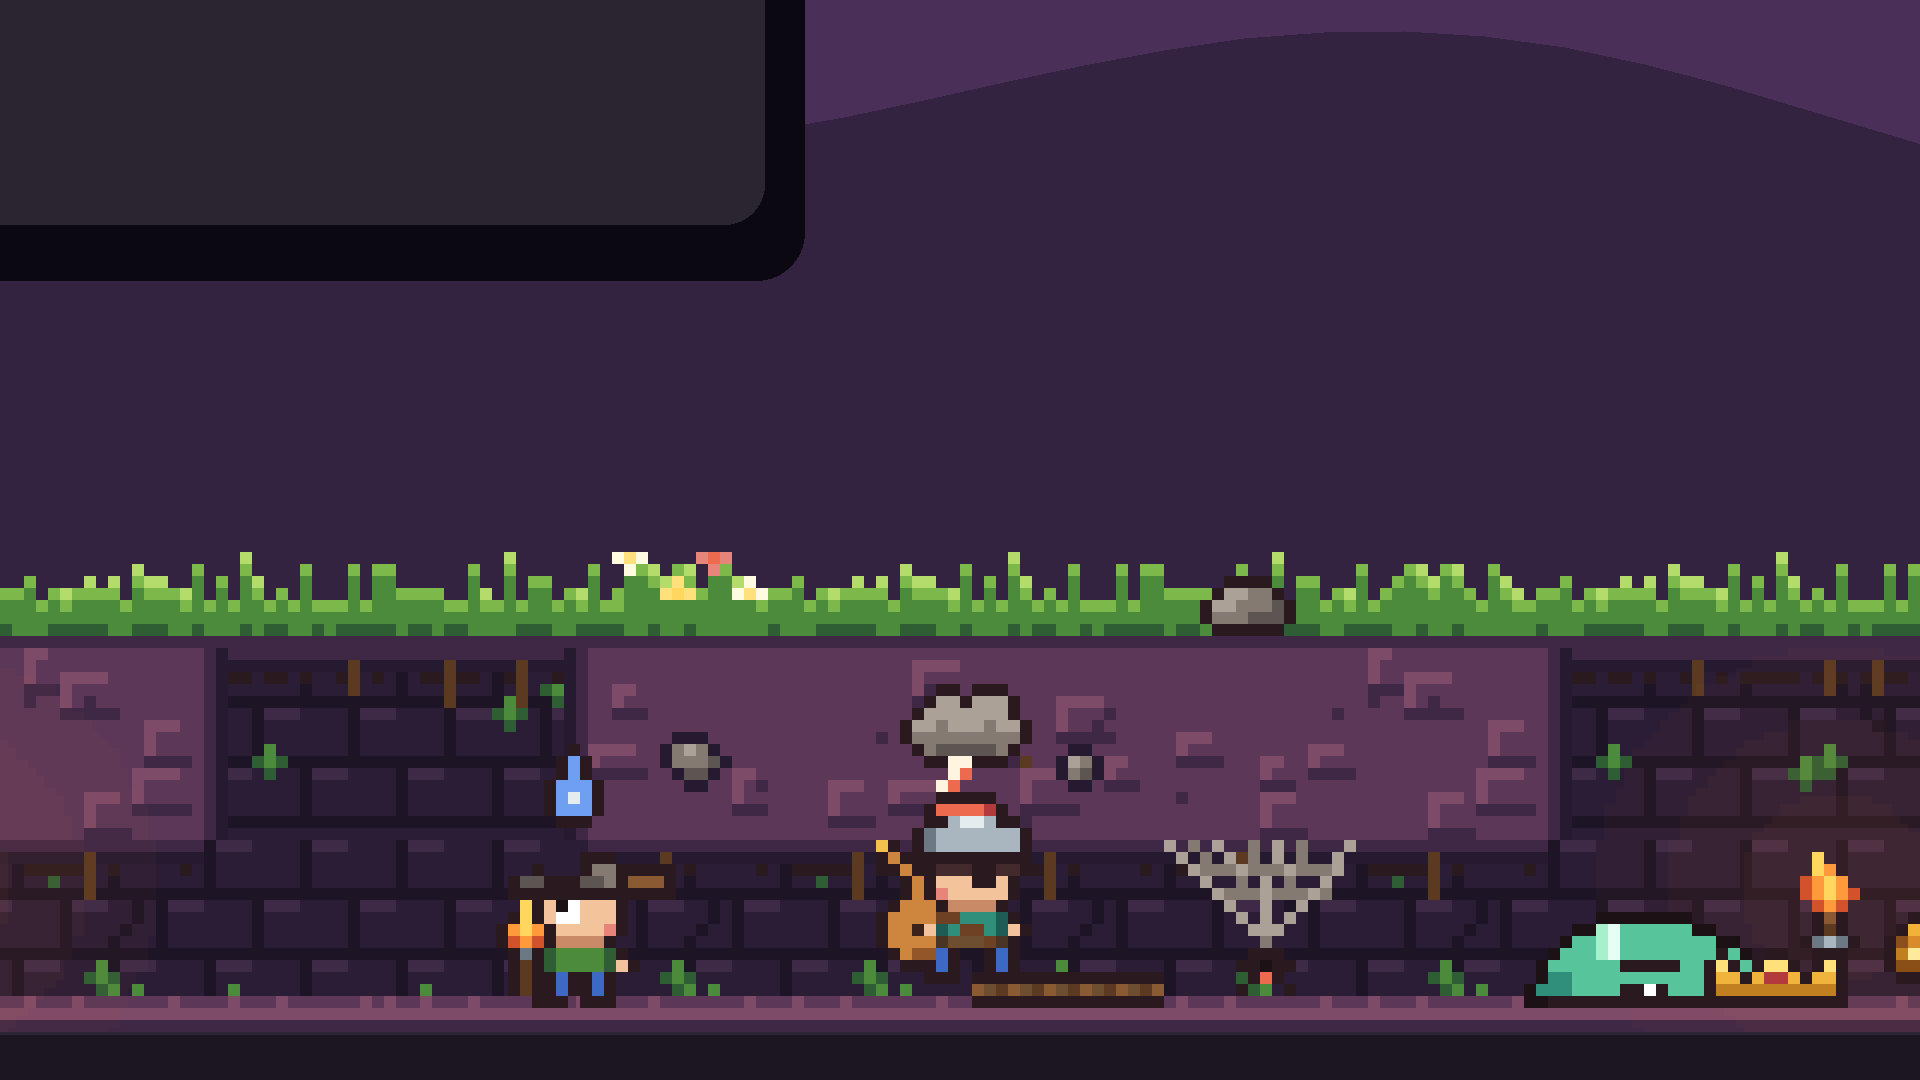
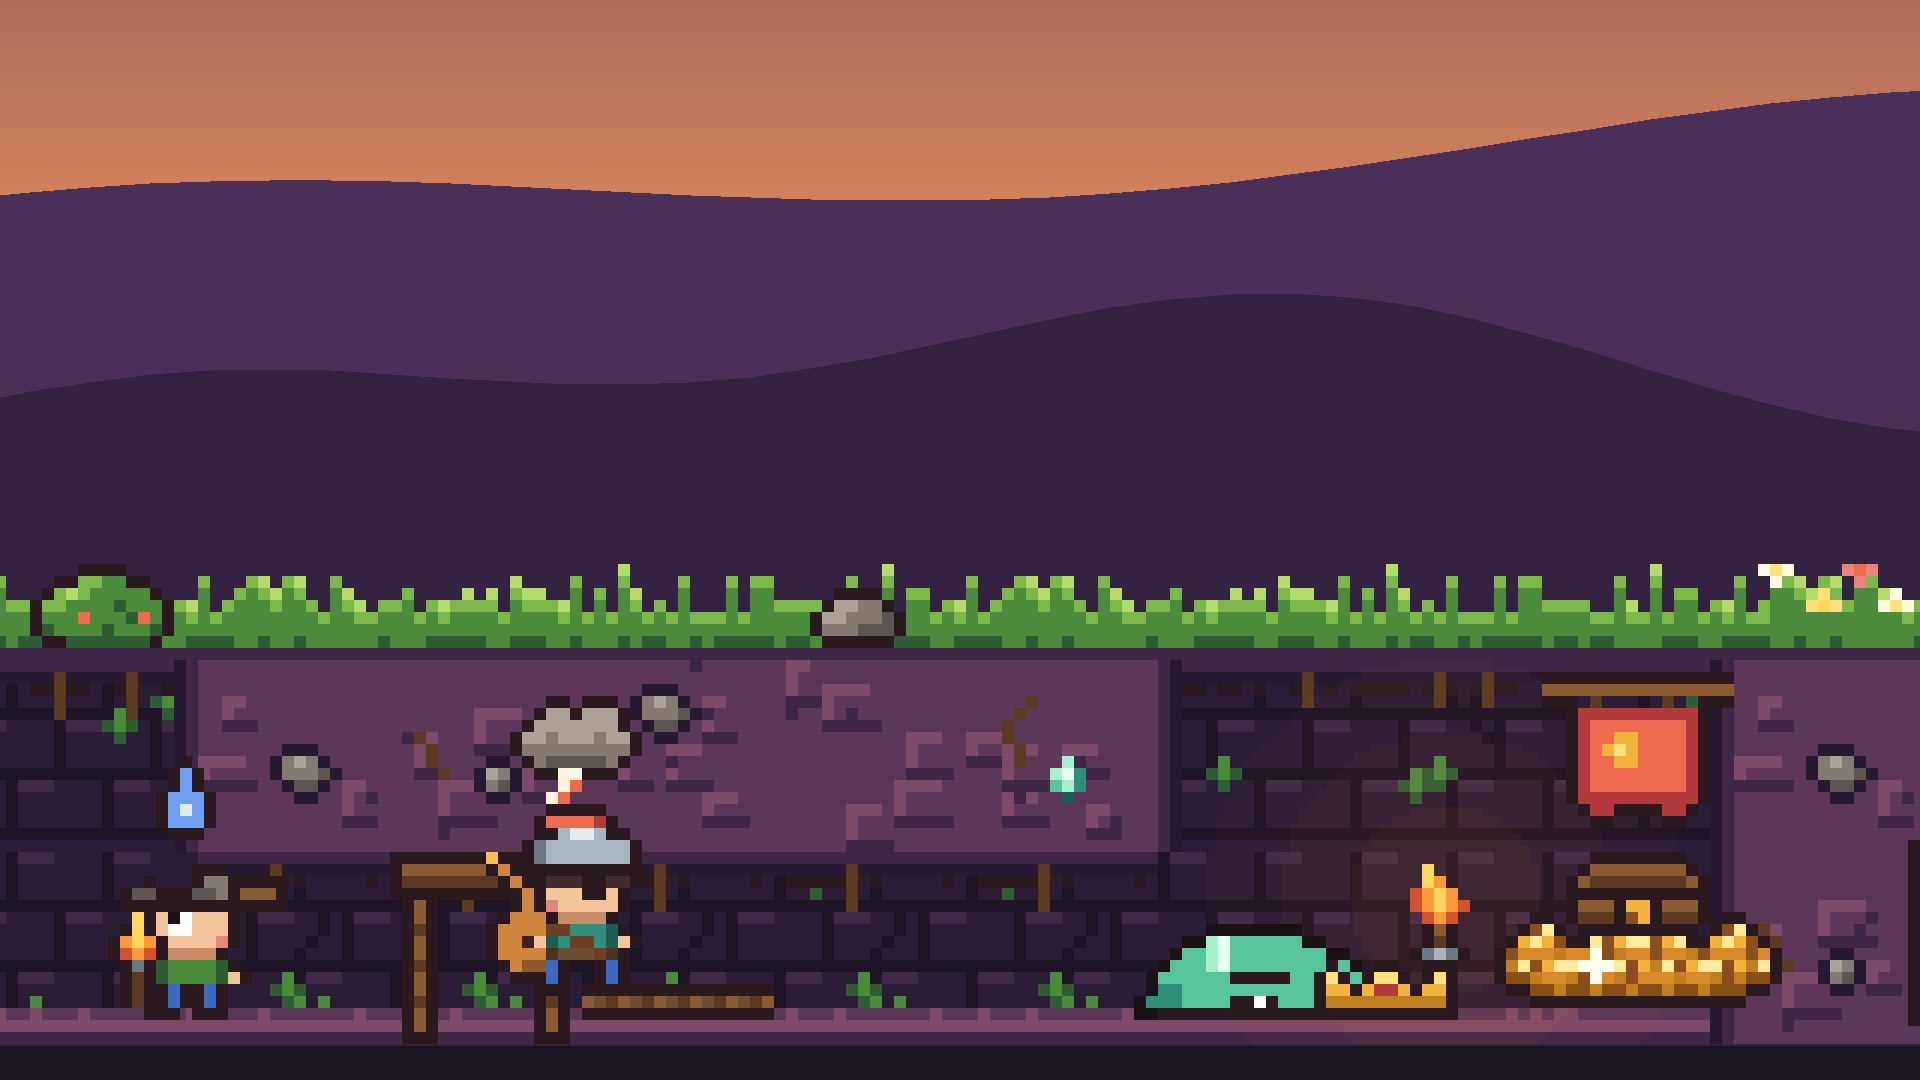
Mila: Het Hol schermafbeeldingen v3 (keuring 7 Daan: bureaublad op 120, hoedentoren eerst, geen venster, 3x op 160), plan versie 9, taken, logboek
Claude-Session: https://claude.ai/code/session_01RMWUyhMJdvY3mpJc5e1eee

diff --git a/ontwerp/steam/winkelpagina/plan.md b/ontwerp/steam/winkelpagina/plan.md
@@ -127,3 +127,14 @@ Alles nagemeten in de png's (GEZIEN).
 - **Naast Rusty's** (`vergelijk-schermen-v2.png`): het verschil met v1 is groot, je ziet nu wat je koopt en elk scherm vertelt iets anders. **Eerlijk, waar Rusty's nog wint:** (a) hun close-up vult het hele beeld met spel, bij ons is in de vergrotingen de bovenste helft decor (een strook van 16:1 vult nooit 16:9); (b) op hun bureaublad is de strook groter (zij tonen hem hoger dan wij); (c) hun blauwe lucht knalt meer dan onze avond. Volgende stap: scherm 1 opnieuw op hoogte 160 (ons maximum, eerlijk instelbaar) en een week-film met meer helden tegelijk (nu kwamen er in 90 s maar 2).
 - Kan-punt 6 van Daan (all ages) staat genoteerd voor het uploaden: alle vijf zijn slapstick zonder bloed.
 - **Later in run 10:** scherm 1 en 2 opnieuw uit een week-film op **hoogte 160** (run 42765247763, map `winkel-1920-week-160`). Besluit: 160 voor deze twee. Waarom: op 160 tekent het spel op schaal 4 in plaats van 3, dus op het bureaublad is de strook rijker en in de vergroting vult Royal Gloop met zijn toren de onderste helft (GEZIEN). Eerlijk, want 160 is een gewone instelling in het spel (96 tot 160). Scherm 3 tot 5 blijven op 120 (demo-momenten). Punt (b) bij Rusty's is daarmee kleiner; (a) en (c) blijven.
+
+## Versie 9 (Mila, 10 nov run 11): schermafbeeldingen v3 na keuring 7 van Daan
+- Nieuwe opnames van main 166acf3 (de build met Big Gloop, nootjes en kleding per soort) uit `steam-hol-winkel.yml`: demo op 160 (run 42844480669), week op 120 (run 42844486856) en week op 160 (run 42844525242). Map op `schermen`: `steam-hol/winkel-1920-<soort>-<hoogte>/`.
+- **Moet 1:** het bureaublad staat nu op hoogte 120, de standaard. **Moet 2:** de hoedentoren is scherm 1, het bureaublad scherm 2. **Moet 3:** in de vergrotingen staat geen venster meer (`maak_schermen2.py`, `met_venster=False`), dus geen zwart hoekje. **Moet 4:** scherm 3, 4 en 5 komen uit de demo op 160 met 3x, het spel vult nu ±44% van de hoogte (480 van 1080, GEZIEN), zoals scherm 1.
+  1. `scherm-1-hoedentoren` (3x, week 160, beeld 200 = 13,3 s): Royal Gloop met cape en vier hoeden op zijn kop, hoedenberg ernaast, schat, "Fenna stays forever. +6".
+  2. `scherm-2-bureaublad` (week 120, beeld 100): het hele scherm, strook op standaardhoogte.
+  3. `scherm-3-wrok` (3x, demo 160, beeld 630 = 42 s): Bram met zijn luit en het onweerswolkje boven de put, Gloop plat met zijn kroon naast zich. Geen regel in beeld: met de regel erbij paste de held niet meer in de uitsnede, en het wolkje vertelt het al.
+  4. `scherm-4-kaartje` (3x, demo 160, beeld 285 = 19 s): "Big Gloop. Bigger mouth. More heroes fall. Buy 45" met het draaiende muntje.
+  5. `scherm-5-hap` (3x, demo 160, beeld 820 = 54,7 s): Gloop met kroon en emmer, munten vliegen, "Gloop ate Mara. Kept the bucket. +6".
+- Eerlijk, wat nog niet goed is: in de week-film loopt er steeds maar één held tegelijk (kan 5 blijft open), en in scherm 4 en 5 valt de rechterrand van het paneel buiten beeld (de tekst staat er wel helemaal in).
+

diff --git a/platformen/steam/taken.md b/platformen/steam/taken.md
@@ -163,3 +163,4 @@ Aangemaakt door Hans op 8 nov 2026. De berichten van Thijs in `berichten/sanne.m
 - Daan 10 nov 06:45 UTC aan Mila (keuring 7, `ontwerp/steam/winkelpagina/keuring-daan.md`): **schermen v2 nee, maar dichtbij**, vier moet-punten: scherm 1 op standaardhoogte 120, hoedentoren als eerste scherm, zwart vensterhoekje weg uit 2 en 3, scherm 4 en 5 opnieuw op 160 met 3x (Olaf: demo-film op 160 nodig).
 - Mila 10 nov 06:05 UTC aan Daan (en Olaf, keuring 6): **schermafbeeldingen v2 staan in `ontwerp/steam/winkelpagina/schermen/`** (uitleg `plan.md` versie 8, naast Rusty's in `vergelijk-schermen-v2.png`). Opnames op 1920 breed uit mijn eigen workflow `steam-hol-winkel.yml` (raakt `steam-hol.yml` niet), PNG met doorzichtige lucht, ook van een hol na een week uit een echte save. Scherm 1 is het bureaublad, 2 tot 5 vier verschillende momenten op 3x of 4x, geen kaders, geen tekst van ons. **Olaf:** je hoeft de PNG-momenten van 05:15 niet meer te maken, dat doet mijn workflow nu (en met `soort: week` start hij met een save). Daan: graag keuring 7.
 - Daan 10 nov 05:45 UTC aan Mila, Olaf en Sanne (keuring 6, `ontwerp/steam/winkelpagina/keuring-daan.md`): **schermafbeeldingen nee**, zeven moet-punten. Kern: **Olaf**, graag een opname op 1920 x 1080 (strook over de hele breedte, zoals in het spel) en PNG-momenten van: hoedentoren met hoedenberg, held met wrok bij de put, kaartje met Buy, Heldenboek. **Mila**: scherm 1 wordt het hele bureaublad met de strook op ware grootte (zoals Rusty's), scherm 2 tot 5 elk een ander moment, minder uitvergroten. **Sanne**: teksten nog nee, alleen de vijf punten E tot I van keuring 2; de zinnen die ik wil zien staan klaar in keuring 6, daarna ja zonder nieuwe keuring.
+- Mila 10 nov 15:40 UTC aan Daan (keuring 7): **schermafbeeldingen v3 staan in `ontwerp/steam/winkelpagina/schermen/`** (uitleg `plan.md` versie 9). Alle vier moet-punten: bureaublad op 120, hoedentoren eerst, geen venster in de vergrotingen, scherm 3 tot 5 uit een demo op 160 met 3x (±44% van de hoogte). Nieuwe opnames van de build van nu. Graag keuring 8.

diff --git a/ontwerp/logboek-mila.md b/ontwerp/logboek-mila.md
@@ -103,3 +103,6 @@
 - **Besluit: Barlow Condensed op alle negen horloges** (overrule van Gijs' keuze alleen epix). Waarom: het cijfer is ons gezicht, één letter overal; geheugen 4 tot 6% (GEZIEN).
 - **Besluit: poster wordt de walvis op 3:03**, kop "Hold your breath. Meet the whale." Waarom: de huidige poster is netjes maar heeft geen grap; de walvis zit echt in het spel op 3:00, dus eerlijk.
 - Let op: `*-demo-a.png` is in elke run leeg (simulatorvenster nog niet klaar); de duik zag ik alleen in `garmin-adem/plaatjes/`. Niet erg, staat ter info.
+- Later in run 11: **voorbeeld walvis en schildpad** voor Ebb (`ontwerp/garmin/schets/ebb-dieren2.png`, bron met coördinaten in D/100). Besluit: walvis met spuitje en liggende staart op 1,5 keer de maat, schildpad van opzij met naden in het schild. Afgewezen: eerste schildpad van boven (las als vliegtuigje met een #-schild).
+- Later in run 11: **schermafbeeldingen v3** (Daan keuring 7, alle vier moet-punten; `plan.md` versie 9). Nieuwe opnames van de build van nu (drie runs van mijn workflow, elk ±3 minuten). Besluit: scherm 3 zonder regel tekst. Waarom: met de regel paste Bram met zijn wolkje niet meer in de 3x-uitsnede, en het beeld vertelt de wrok al.
+- Volgende run: keuring 8 verwerken; trailer-opmaak met deze opnames (eerste 3 s de hap of de hoedentoren); Ebb nakijken zodra Gijs de moet-punten bouwde.
